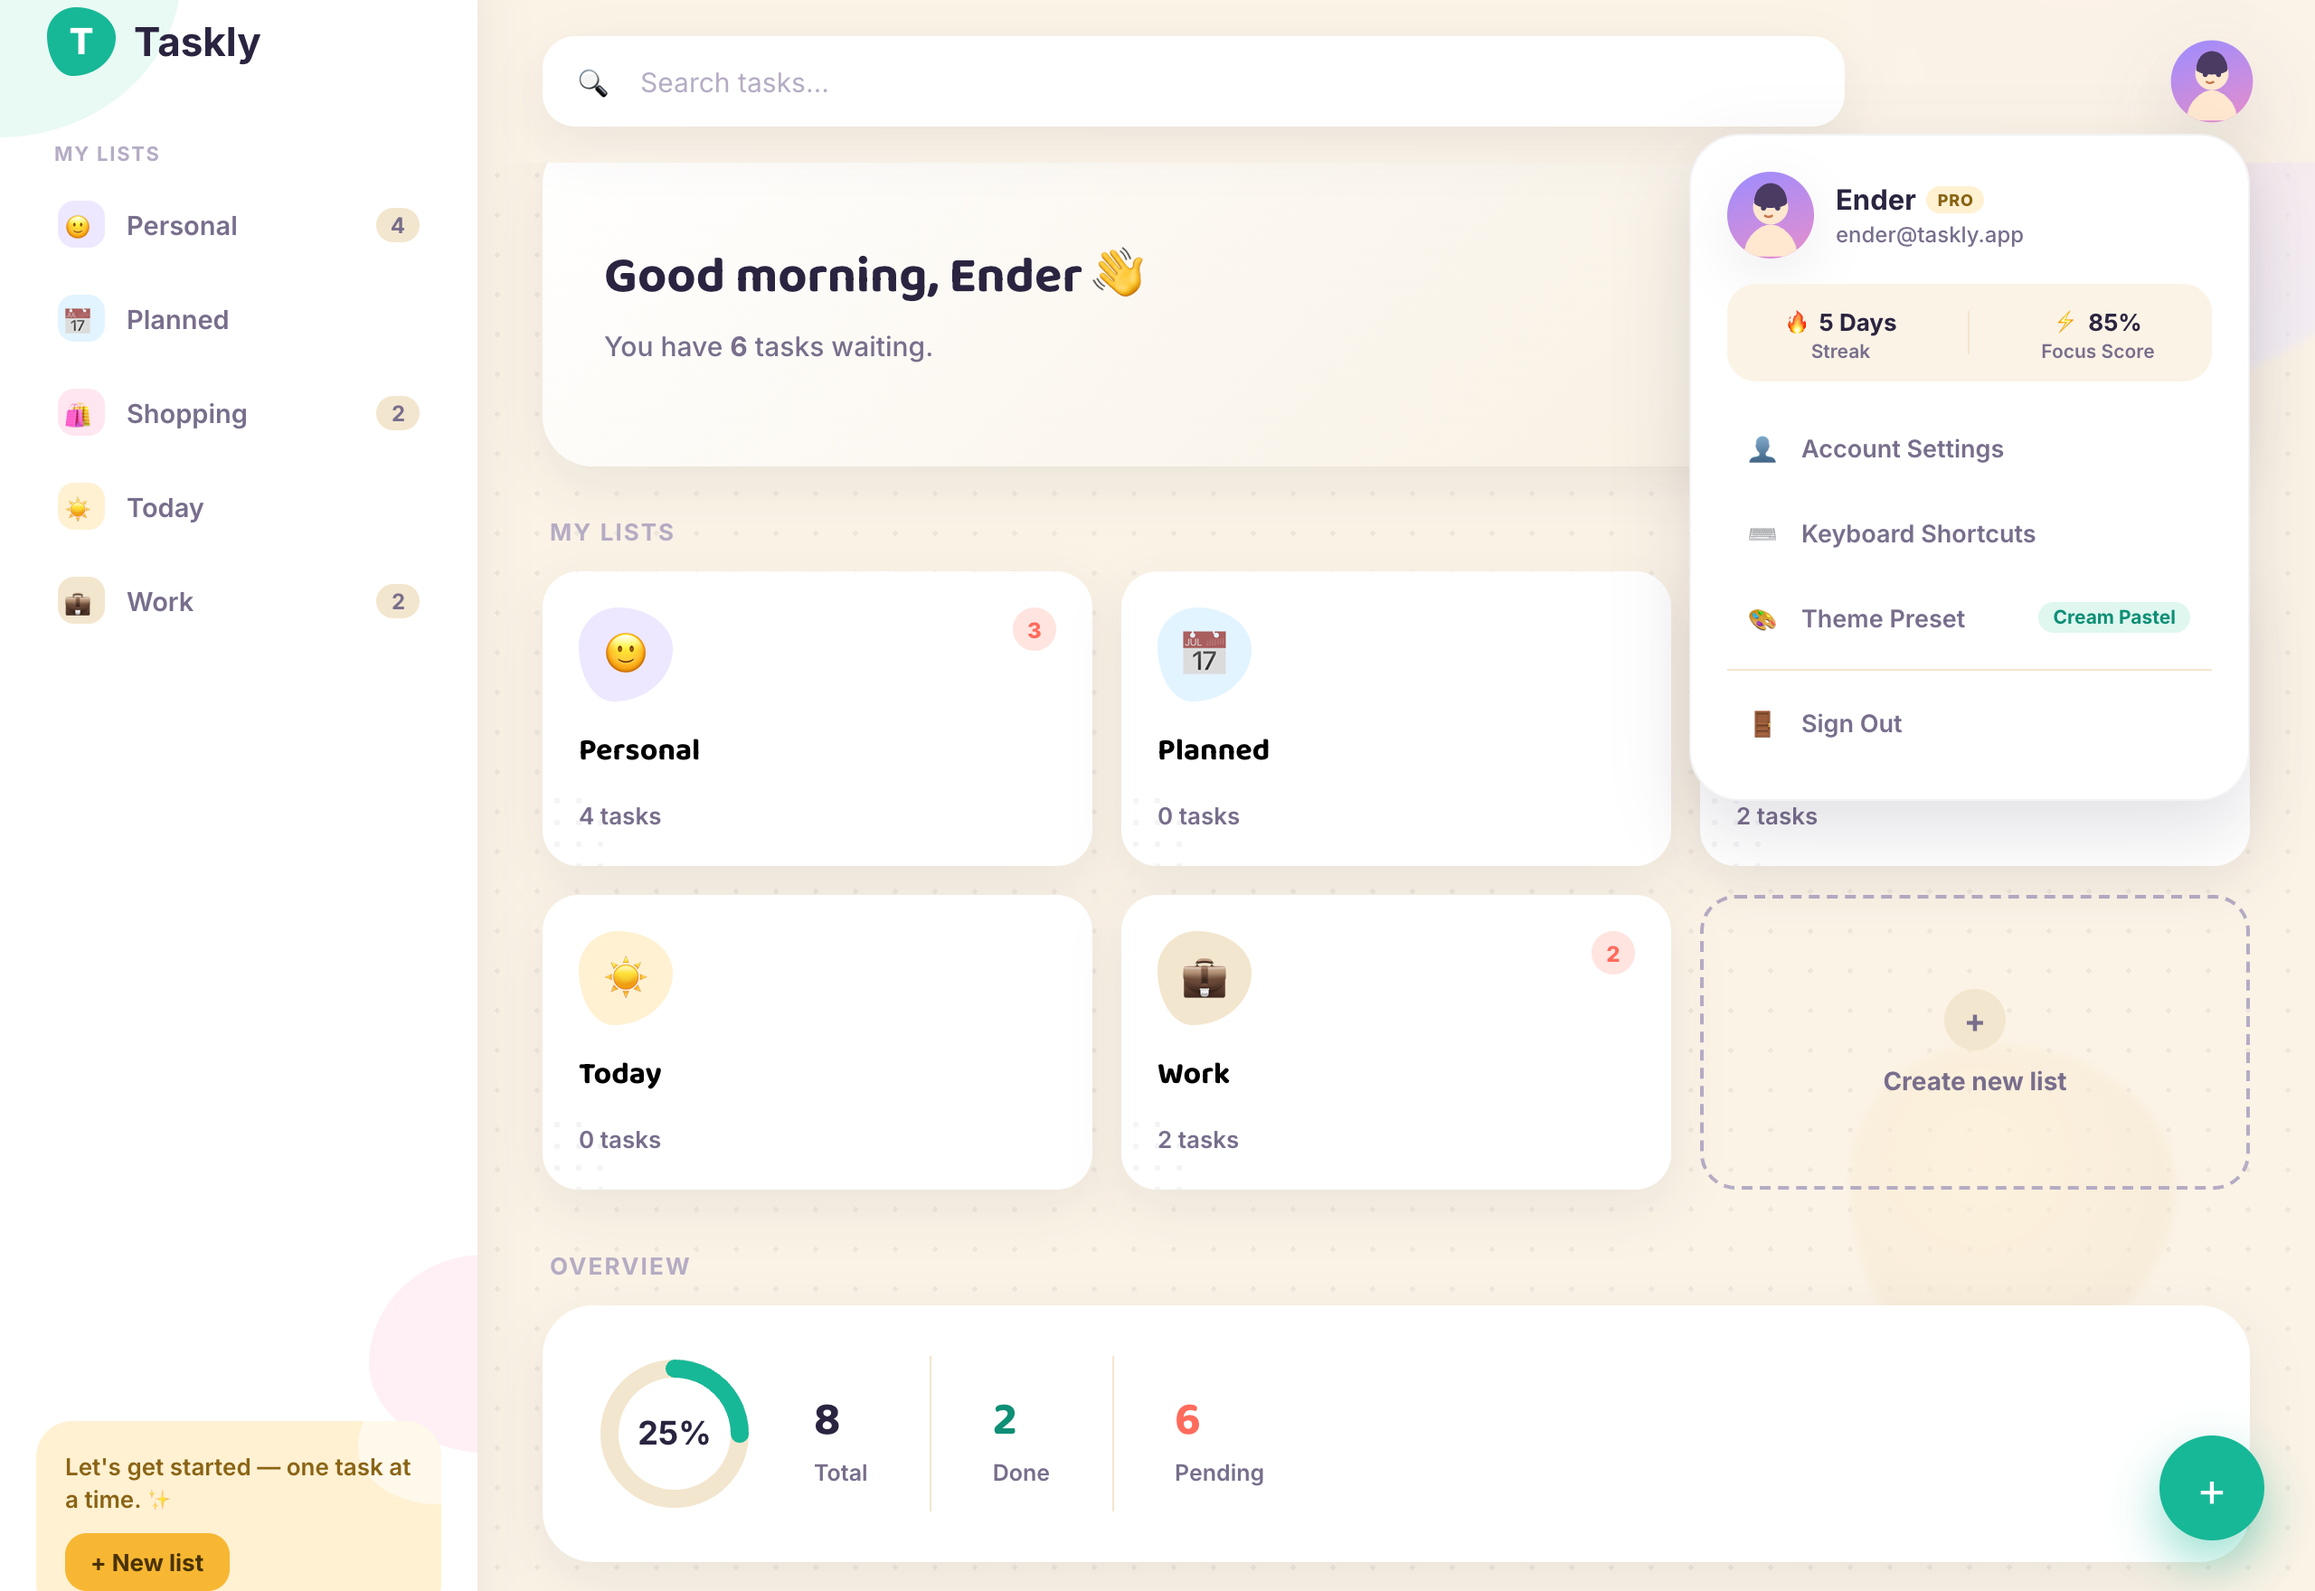
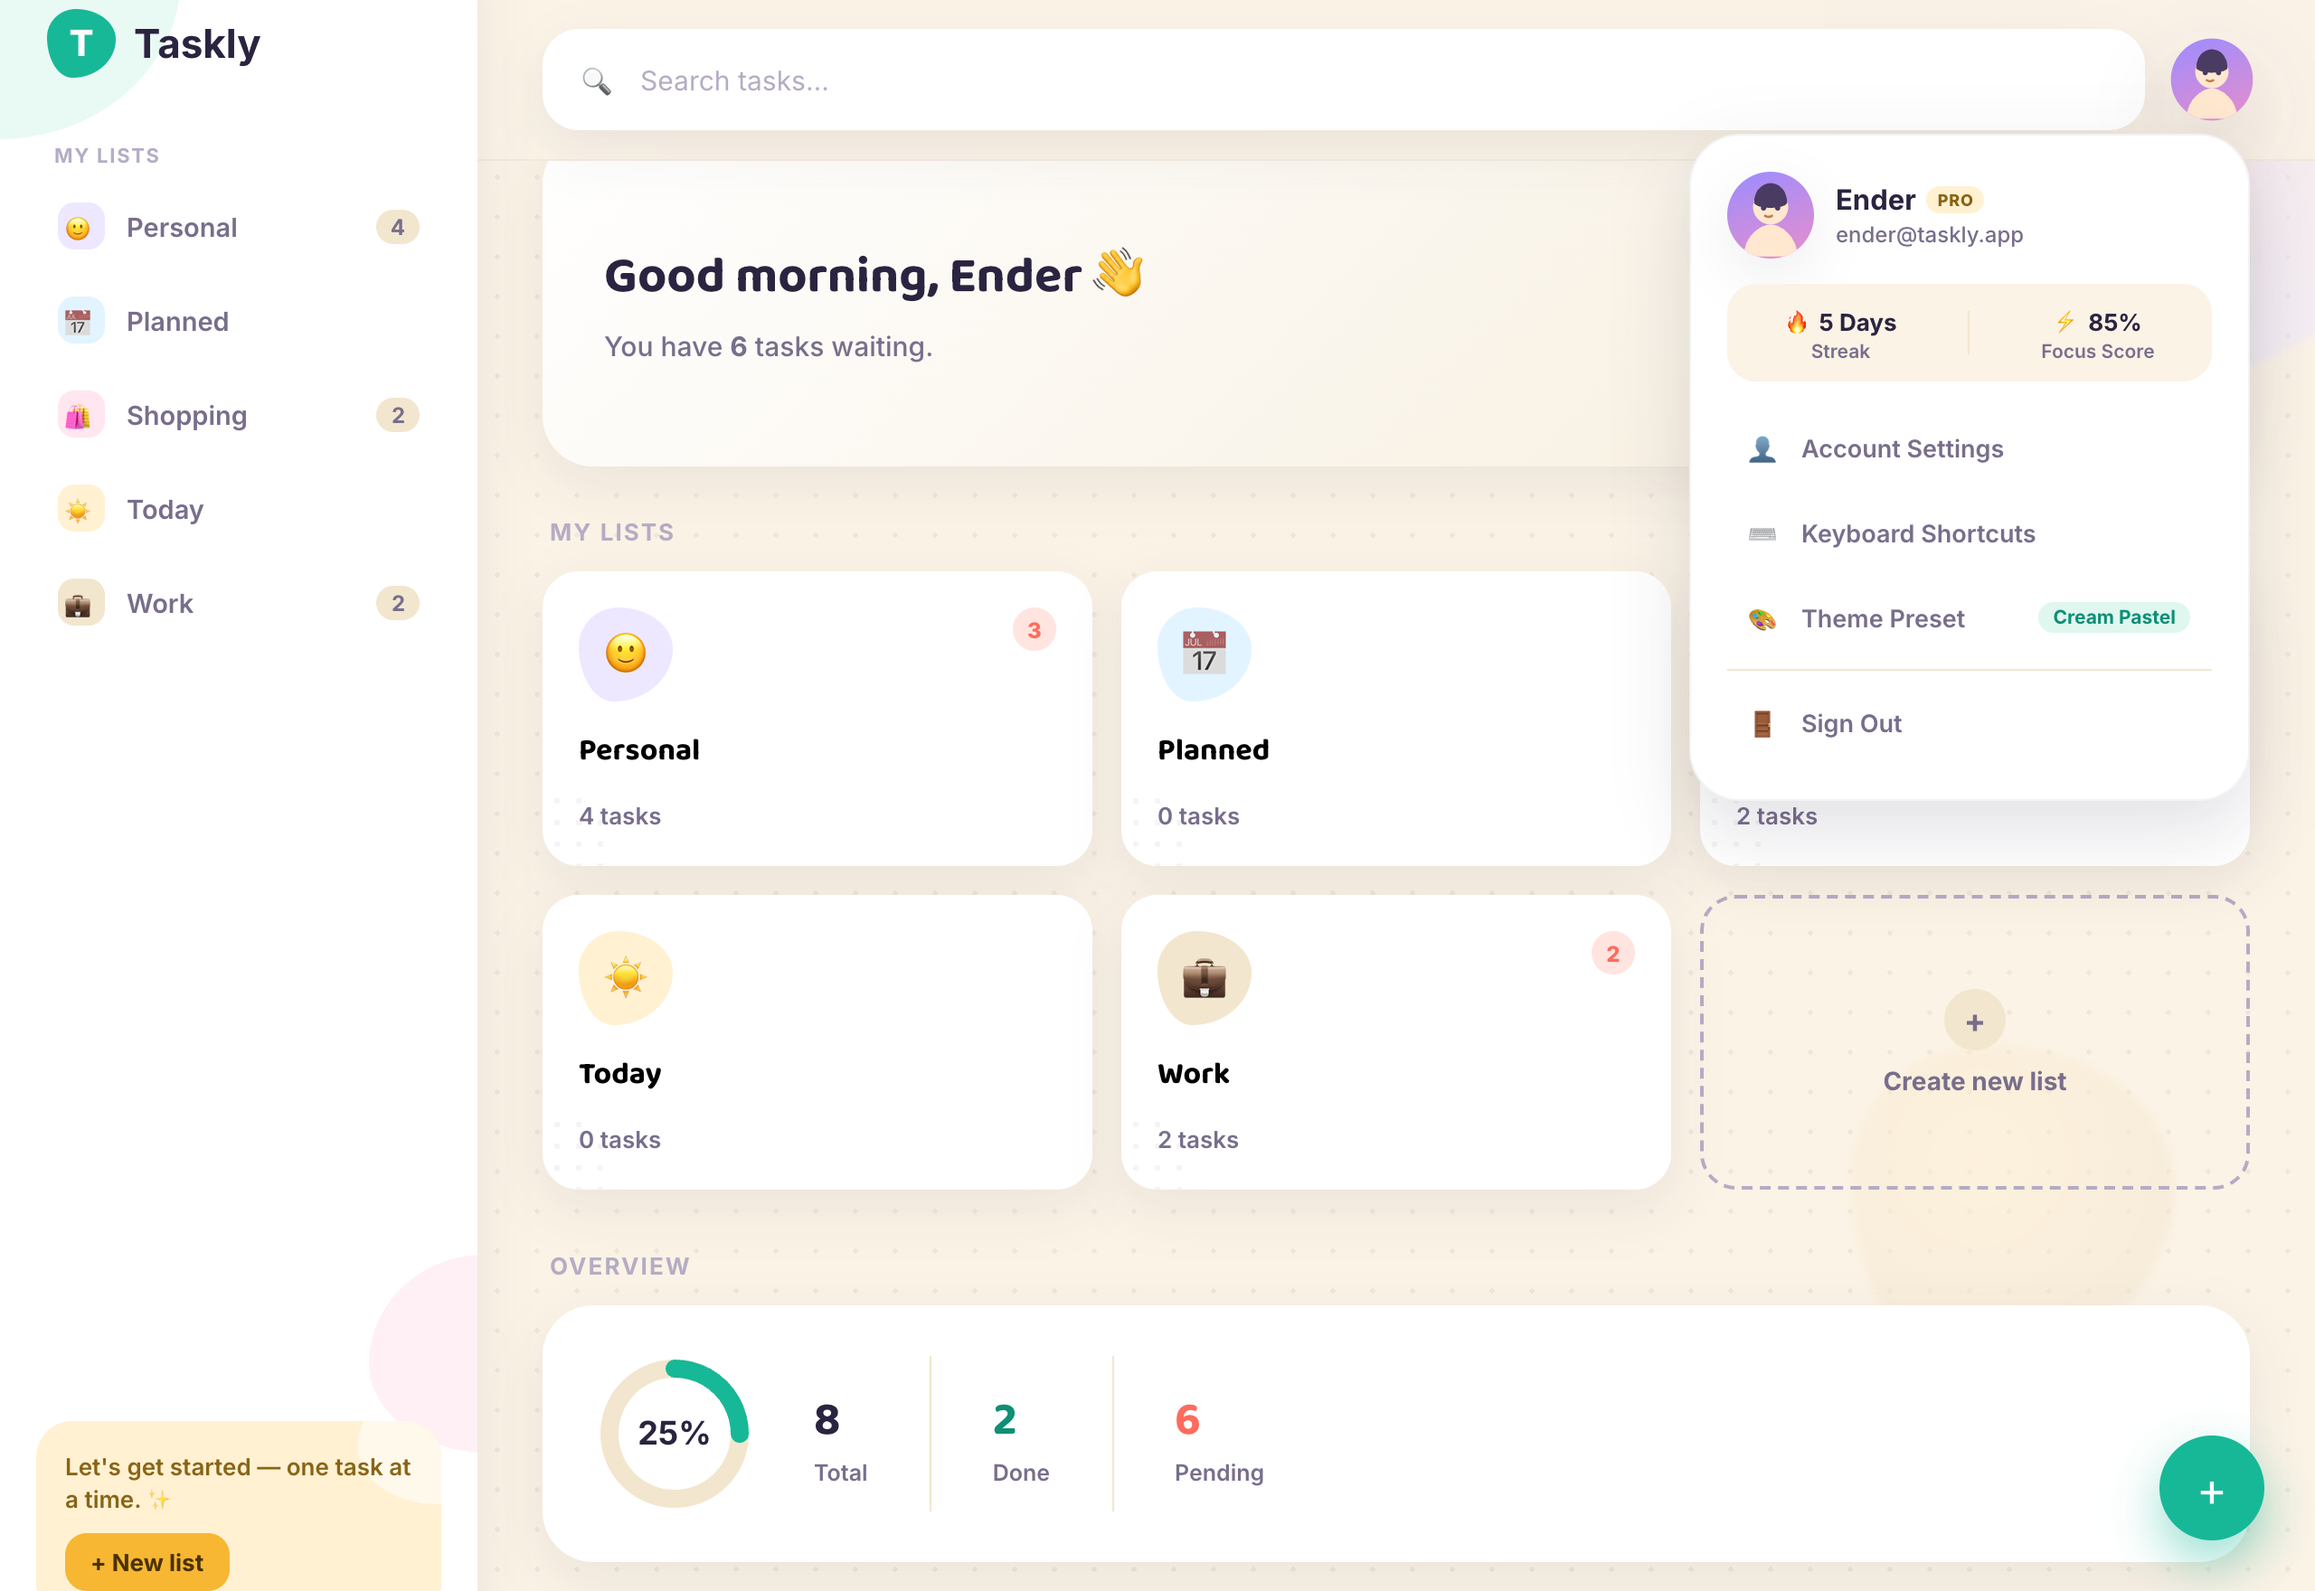
refactor: clean up project, expand searchbar vertically with focus ring, clear button, and updated screenshots

diff --git a/frontend/app.js b/frontend/app.js
@@ -170,7 +170,9 @@ function openNewListModal() {
     picker.appendChild(btn);
   });
   openModal("newListModal");
-  setTimeout(() => $("#newListName").focus(), 80);
+  const nameInput = $("#newListName");
+  nameInput.onkeydown = e => { if (e.key === "Enter") createList(); };
+  setTimeout(() => nameInput.focus(), 80);
 }
 
 function createList() {
@@ -212,13 +214,15 @@ function clearListTasks(id) {
 function openAddTaskModal() {
   $("#taskModalTitle").textContent = "Add New Task";
   $("#taskModalSub").textContent = "Fill in the details below.";
-  $("#modalTaskTitle").value = "";
+  const titleInp = $("#modalTaskTitle");
+  titleInp.value = "";
   $("#modalTaskDue").value = "";
   $("#editingTaskId").value = "";
   _selectedPrio = "Medium";
   document.querySelectorAll(".prio-pill").forEach(p => p.classList.toggle("selected", p.dataset.p === "Medium"));
+  titleInp.onkeydown = e => { if (e.key === "Enter") saveTaskFromModal(); };
   openModal("taskModal");
-  setTimeout(() => $("#modalTaskTitle").focus(), 80);
+  setTimeout(() => titleInp.focus(), 80);
 }
 
 function openEditModal(id) {
@@ -226,13 +230,15 @@ function openEditModal(id) {
   if (!t) return;
   $("#taskModalTitle").textContent = "Edit Task";
   $("#taskModalSub").textContent = "Update task details.";
-  $("#modalTaskTitle").value = t.title;
+  const titleInp = $("#modalTaskTitle");
+  titleInp.value = t.title;
   $("#modalTaskDue").value = t.due || "";
   $("#editingTaskId").value = id;
   _selectedPrio = t.priority;
   document.querySelectorAll(".prio-pill").forEach(p => p.classList.toggle("selected", p.dataset.p === t.priority));
+  titleInp.onkeydown = e => { if (e.key === "Enter") saveTaskFromModal(); };
   openModal("taskModal");
-  setTimeout(() => $("#modalTaskTitle").focus(), 80);
+  setTimeout(() => titleInp.focus(), 80);
 }
 
 function selectPrio(btn) {
@@ -250,7 +256,8 @@ function saveTaskFromModal() {
     const t = DATA.tasks.find(x => x.id == editId);
     if (t) { t.title = title; t.priority = _selectedPrio; t.due = due; }
   } else {
-    DATA.tasks.push({ id:DATA.nextId++, list:state.list, title, priority:_selectedPrio, done:false, due });
+    const targetList = (state.view === "list" && DATA.lists[state.list]) ? state.list : (DATA.lists[state.list] ? state.list : "personal");
+    DATA.tasks.push({ id:DATA.nextId++, list:targetList, title, priority:_selectedPrio, done:false, due });
   }
   save();
   closeModal("taskModal");
@@ -563,13 +570,33 @@ $("#overlay").onclick     = closeDrawer;
 
 /* ─── Search Bar ──────────────────────────────────────────── */
 const searchInput = $("#searchInput");
-searchInput.oninput = () => {
-  state.search = searchInput.value;
+const searchClearBtn = $("#searchClearBtn");
+
+function updateSearch() {
+  state.search = searchInput ? searchInput.value : "";
+  if (searchClearBtn) {
+    searchClearBtn.style.display = state.search ? "flex" : "none";
+  }
   render();
-};
-searchInput.onkeydown = e => {
-  if (e.key === "Escape") { state.search = ""; searchInput.value = ""; render(); }
-};
+}
+
+if (searchInput) {
+  searchInput.oninput = updateSearch;
+  searchInput.onkeydown = e => {
+    if (e.key === "Escape") {
+      if (searchInput) searchInput.value = "";
+      updateSearch();
+    }
+  };
+}
+
+if (searchClearBtn) {
+  searchClearBtn.onclick = () => {
+    if (searchInput) searchInput.value = "";
+    updateSearch();
+    if (searchInput) searchInput.focus();
+  };
+}
 
 /* ─── Floating Action Button ──────────────────────────────── */
 $("#fab").onclick = () => {
@@ -612,8 +639,12 @@ if (avatarBtn && profilePopover) {
 
 function openAccountModal() {
   profilePopover.classList.remove("open");
-  $("#accountNameInput").value  = DATA.user?.name  || "Ender";
-  $("#accountEmailInput").value = DATA.user?.email || "ender@taskly.app";
+  const nameInp = $("#accountNameInput");
+  const emailInp = $("#accountEmailInput");
+  nameInp.value  = DATA.user?.name  || "Ender";
+  emailInp.value = DATA.user?.email || "ender@taskly.app";
+  nameInp.onkeydown = e => { if (e.key === "Enter") saveAccountSettings(); };
+  emailInp.onkeydown = e => { if (e.key === "Enter") saveAccountSettings(); };
   openModal("accountModal");
 }
 

diff --git a/frontend/style.css b/frontend/style.css
@@ -186,25 +186,44 @@ input, select { font-family: inherit; }
 /* ─── Topbar ──────────────────────────────────────────────── */
 .topbar {
   position: sticky; top: 0;
-  background: rgba(251, 243, 230, .85); backdrop-filter: blur(10px);
-  z-index: 10; padding: 20px 0;
+  background: rgba(251, 243, 230, .88); backdrop-filter: blur(12px);
+  -webkit-backdrop-filter: blur(12px);
+  z-index: 10; padding: 16px 0;
+  border-bottom: 1px solid rgba(43, 36, 64, 0.04);
 }
 .topbar-inner {
   display: flex; align-items: center; gap: 16px;
   padding: 0 36px; max-width: 1080px; width: 100%; margin: 0 auto;
 }
 .search {
-  flex: 1; max-width: 720px; display: flex; align-items: center; gap: 12px;
-  background: var(--white); border-radius: 18px; padding: 12px 20px;
-  box-shadow: var(--shadow-soft); transition: max-width .2s, box-shadow .2s;
+  flex: 1; display: flex; align-items: center; gap: 12px;
+  background: var(--white); border-radius: 20px; padding: 13px 20px;
+  min-height: 50px; box-shadow: var(--shadow-soft);
+  border: 2px solid transparent;
+  transition: all .2s cubic-bezier(0.16, 1, 0.3, 1);
 }
-.search:focus-within { box-shadow: var(--shadow-pop); }
+.search:hover { box-shadow: 0 8px 24px rgba(43, 36, 64, 0.09); }
+.search:focus-within {
+  border-color: var(--teal);
+  box-shadow: 0 10px 28px rgba(23, 184, 151, 0.16);
+  background: var(--white);
+}
+.search-icon {
+  font-size: 16px; opacity: 0.65; user-select: none;
+  flex-shrink: 0; display: flex; align-items: center;
+}
 .search input {
   border: none; outline: none; background: none;
-  font-size: 15px; width: 100%; color: var(--ink);
+  font-size: 15px; font-weight: 500; width: 100%; color: var(--ink); padding: 0;
 }
-.search input::placeholder { color: var(--ink-faint); }
-.topbar .spacer { flex: 0.2; }
+.search input::placeholder { color: var(--ink-faint); font-weight: 400; }
+.search-clear-btn {
+  background: var(--cream); color: var(--ink-soft); border: none;
+  border-radius: 50%; width: 22px; height: 22px; font-size: 11px; font-weight: 700;
+  display: flex; align-items: center; justify-content: center;
+  cursor: pointer; transition: all .15s ease; flex-shrink: 0;
+}
+.search-clear-btn:hover { background: var(--coral-tint); color: var(--coral); }
 
 /* Avatar */
 .avatar {

diff --git a/frontend/index.html b/frontend/index.html
@@ -63,11 +63,10 @@
 
         <!-- Search bar -->
         <div class="search">
-          <span>🔍</span>
-          <input type="text" id="searchInput" placeholder="Search tasks…" aria-label="Search tasks">
+          <span class="search-icon" aria-hidden="true">🔍</span>
+          <input type="text" id="searchInput" placeholder="Search tasks…" aria-label="Search tasks" autocomplete="off">
+          <button id="searchClearBtn" class="search-clear-btn" title="Clear search" aria-label="Clear search" style="display:none;">✕</button>
         </div>
-
-        <div class="spacer"></div>
 
         <!-- Avatar / Profile trigger -->
         <div class="avatar" id="avatarBtn" title="Ender Profile" role="button" tabindex="0" aria-haspopup="true">
